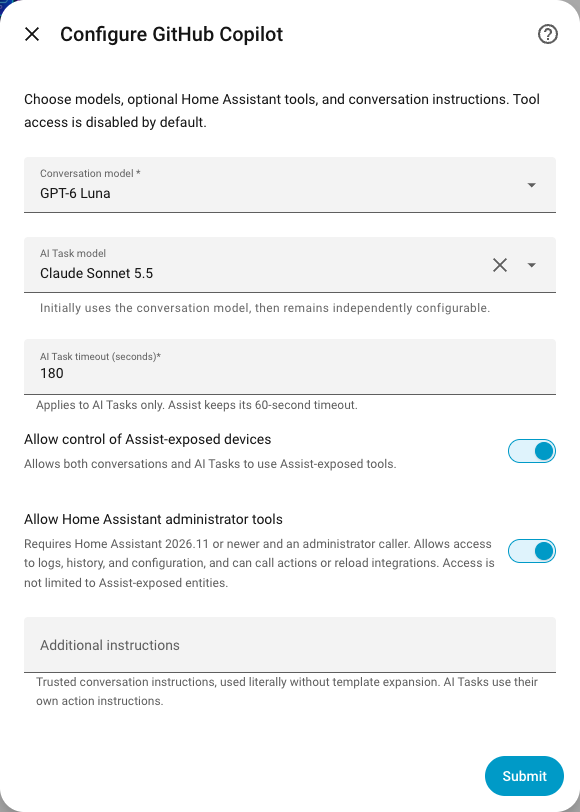
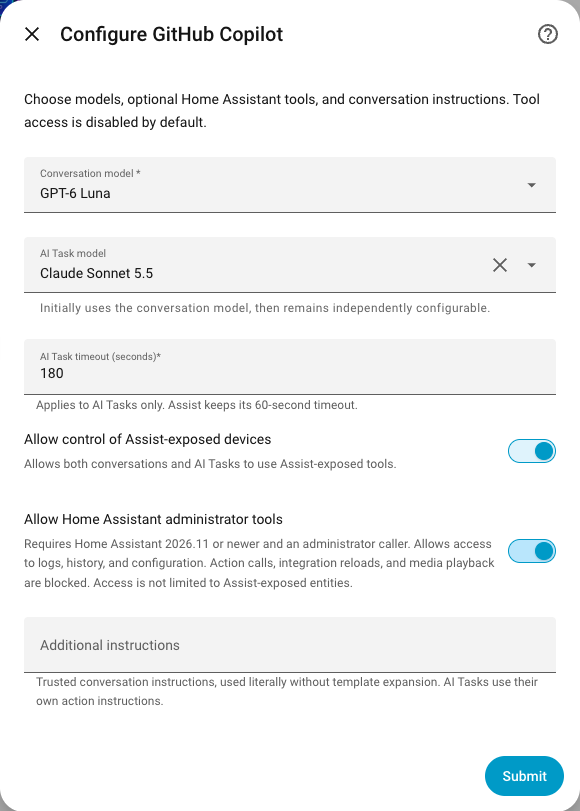
Gate administrator-side-effecting tools
Keep administrator read tools available while blocking known action,
integration reload, and media playback tools from autonomous execution.
Recheck administrator access before exposing API context, and document
the restricted behavior.

diff --git a/tests/test_backend.py b/tests/test_backend.py
@@ -1116,6 +1116,58 @@ async def test_cached_task_auth_failure_starts_reauth_without_replay(
     await assert_clean(setup)
 
 
+async def test_admin_api_context_is_hidden_after_permission_is_revoked(
+    setup, monkeypatch
+):
+    monkeypatch.setattr(
+        setup.module.llm, "LLM_API_HOME_ASSISTANT", "homeassistant", raising=False
+    )
+    setup.entry.options[CONF_ENABLE_HOME_ASSISTANT_API] = True
+    user = SimpleNamespace(is_admin=True)
+    setup.backend.hass.auth = SimpleNamespace(
+        async_get_user=AsyncMock(return_value=user)
+    )
+    setup.chat.llm_api = SimpleNamespace(
+        api_prompt="Administrator-only configuration content",
+        tools=[],
+        custom_serializer=None,
+        async_call_tool=AsyncMock(),
+        api=SimpleNamespace(requires_admin=True),
+    )
+    received = []
+
+    async def send(*args, **kwargs):
+        tool = next(
+            tool
+            for tool in setup.session.set_tools.await_args.args[0]
+            if tool.name == CONTEXT_TOOL_NAME
+        )
+        user.is_admin = False
+        for section in ("assist_api", "request"):
+            received.append(
+                await tool.handler(
+                    ToolInvocation(
+                        tool_name=tool.name,
+                        tool_call_id=f"context-{section}",
+                        arguments={"section": section},
+                    )
+                )
+            )
+        return None
+
+    setup.session.send_and_wait.side_effect = send
+    await turn(setup)
+
+    assert received[0].result_type == "failure"
+    assert "Administrator-only configuration content" not in (
+        received[0].text_result_for_llm
+    )
+    assert received[1].result_type == "success"
+    assert "current_time" in received[1].text_result_for_llm
+    setup.chat.llm_api.async_call_tool.assert_not_awaited()
+    await assert_clean(setup)
+
+
 @pytest.mark.parametrize(
     "message", ["HTTP 403 Forbidden", "HTTP 429 Too many requests"]
 )
@@ -2489,10 +2541,10 @@ async def test_serialization_failure_after_action_is_reported_without_replay(set
     await assert_clean(setup)
 
 
-def action_api(**kwargs):
+def action_api(*, tool_name="action", **kwargs):
     return SimpleNamespace(
         tools=[
-            SimpleNamespace(name="action", description="", parameters=vol.Schema({}))
+            SimpleNamespace(name=tool_name, description="", parameters=vol.Schema({}))
         ],
         custom_serializer=None,
         api_prompt="",
@@ -2692,9 +2744,17 @@ async def test_admin_notice_follows_final_reply_after_intermediate_tool(setup):
     await assert_clean(setup)
 
 
+@pytest.mark.parametrize(
+    "ha_tool_name",
+    [
+        "homeassistant__call_action",
+        "config__reload_config_entry",
+        "media_player__play_media",
+    ],
+)
 @pytest.mark.parametrize("is_admin", [False, True])
-async def test_administrator_action_rechecks_current_permission(
-    setup, monkeypatch, is_admin
+async def test_administrator_side_effect_tools_are_blocked(
+    setup, monkeypatch, ha_tool_name, is_admin
 ):
     monkeypatch.setattr(
         setup.module.llm, "LLM_API_HOME_ASSISTANT", "homeassistant", raising=False
@@ -2703,7 +2763,9 @@ async def test_administrator_action_rechecks_current_permission(
     setup.backend.hass.auth = SimpleNamespace(
         async_get_user=AsyncMock(return_value=SimpleNamespace(is_admin=is_admin))
     )
-    setup.chat.llm_api = action_api(return_value={"success": True})
+    setup.chat.llm_api = action_api(
+        tool_name=ha_tool_name, return_value={"success": True}
+    )
     received = []
 
     async def send(*args, **kwargs):
@@ -2717,12 +2779,38 @@ async def test_administrator_action_rechecks_current_permission(
 
     setup.session.send_and_wait.side_effect = send
     await turn(setup)
-    assert received[0].result_type == ("success" if is_admin else "failure")
+    assert received[0].result_type == "failure"
+    setup.chat.llm_api.async_call_tool.assert_not_awaited()
     if is_admin:
-        setup.chat.llm_api.async_call_tool.assert_awaited_once()
+        assert "autonomous execution" in received[0].text_result_for_llm
     else:
-        setup.chat.llm_api.async_call_tool.assert_not_awaited()
         assert "administrator" in received[0].text_result_for_llm
+    await assert_clean(setup)
+
+
+async def test_administrator_read_tools_remain_available(setup, monkeypatch):
+    monkeypatch.setattr(
+        setup.module.llm, "LLM_API_HOME_ASSISTANT", "homeassistant", raising=False
+    )
+    setup.entry.options[CONF_ENABLE_HOME_ASSISTANT_API] = True
+    setup.backend.hass.auth = SimpleNamespace(
+        async_get_user=AsyncMock(return_value=SimpleNamespace(is_admin=True))
+    )
+    setup.chat.llm_api = action_api(
+        tool_name="system_log__get_logs", return_value={"logs": []}
+    )
+
+    async def send(*args, **kwargs):
+        tool = setup.session.set_tools.await_args.args[0][0]
+        result = await tool.handler(
+            ToolInvocation(tool_name=tool.name, tool_call_id="read", arguments={})
+        )
+        assert result.result_type == "success"
+        return None
+
+    setup.session.send_and_wait.side_effect = send
+    await turn(setup)
+    setup.chat.llm_api.async_call_tool.assert_awaited_once()
     await assert_clean(setup)
 
 

diff --git a/custom_components/github_copilot/backend.py b/custom_components/github_copilot/backend.py
@@ -113,6 +113,14 @@ if TYPE_CHECKING:
     from .images import GeneratedImage
 
 _LOGGER = logging.getLogger(__name__)
+# Keep administrator reads available while denying known side-effecting tools.
+_ADMIN_SIDE_EFFECT_TOOLS = frozenset(
+    {
+        "config__reload_config_entry",
+        "homeassistant__call_action",
+        "media_player__play_media",
+    }
+)
 _CONTEXT_PARAMETERS = vol.Schema(
     {vol.Required("section"): vol.In(["assist_api", "request"])}
 )
@@ -674,13 +682,29 @@ class ConversationBackend:
                         if not active or self._closed:
                             raise asyncio.CancelledError
                         if is_context:
+                            if (
+                                admin_api_active
+                                and arguments.get("section") == "assist_api"
+                            ):
+                                await async_require_admin(self.hass, context.context)
                             tool_result = self._context_tool_result(
                                 arguments, user_input, chat_log
                             )
                         else:
                             if admin_api_active:
                                 await async_require_admin(self.hass, context.context)
-                            tool_result = await ha_api.async_call_tool(ha_tool_input)
+                            if admin_api_active and ha_name in _ADMIN_SIDE_EFFECT_TOOLS:
+                                tool_result = {
+                                    "error": "administrator_side_effect_blocked",
+                                    "error_text": (
+                                        "This administrator-side-effecting tool is "
+                                        "blocked for autonomous execution."
+                                    ),
+                                }
+                            else:
+                                tool_result = await ha_api.async_call_tool(
+                                    ha_tool_input
+                                )
                     except (HomeAssistantError, vol.Invalid) as err:
                         tool_result = {"error": type(err).__name__}
                         if str(err):

diff --git a/tests/test_ha_contract.py b/tests/test_ha_contract.py
@@ -535,10 +535,10 @@ async def test_real_administrator_tools_read_logs_and_call_actions(
     try:
         result = await entity._async_handle_message(user_input, chat)
         assert result.response.speech["plain"]["speech"] == "Done."
-        assert [item.result_type for item in tool_results] == ["success", "success"]
+        assert [item.result_type for item in tool_results] == ["success", "failure"]
         assert "Recorded test warning" in tool_results[0].text_result_for_llm
-        assert len(calls) == 1
-        assert calls[0].context.user_id == "admin"
+        assert "autonomous execution" in tool_results[1].text_result_for_llm
+        assert not calls
 
         user.is_admin = False
         deltas.clear()
@@ -549,7 +549,7 @@ async def test_real_administrator_tools_read_logs_and_call_actions(
         assert result.continue_conversation is question
         assert "".join(delta.get("content") or "" for delta in deltas) == expected
         assert chat.content[-1].content == expected
-        assert len(calls) == 1
+        assert not calls
         assert client.create_session.await_count == 2
         assert (chat.llm_api is not None) is device_control
     finally:

diff --git a/docs/setup.md b/docs/setup.md
@@ -115,7 +115,7 @@ screenshot shows device control and administrator tools enabled, but both are
 | **AI Task model** | Optionally choose a different model for automations. Initially defaults to the conversation model, but later changes to the conversation model do not change it. |
 | **AI Task timeout (seconds)** | Defaults to 180 seconds. This does not change Assist's 60-second timeout. |
 | **Allow control of Assist-exposed devices** | Allows conversations and AI Tasks to use Assist-exposed tools. It is **off by default**. |
-| **Allow Home Assistant administrator tools** | On HA 2026.11 or newer, allows administrator-authenticated conversations and data tasks to access logs, history and configuration, and perform actions such as calling services or reloading integrations. Access is not restricted to Assist-exposed entities. It is **off by default**. |
+| **Allow Home Assistant administrator tools** | On HA 2026.11 or newer, allows administrator-authenticated conversations and data tasks to read logs, history and configuration. Action calls, integration reloads and media playback are blocked. Access is not restricted to Assist-exposed entities. It is **off by default**. |
 | **Additional instructions** | Instructions for conversations only, such as "Keep replies brief and use Celsius." AI Tasks use the instructions supplied by each action. |
 
 For camera or image analysis, choose an AI Task model with vision support.

diff --git a/docs/usage.md b/docs/usage.md
@@ -17,11 +17,12 @@ Home Assistant templates are not expanded.
 
 On Home Assistant 2026.11 or newer, **Allow Home Assistant administrator tools**
 is a separate opt-in for conversations and data tasks. It enables HA's
-administrator API, including tools for logs, history, configuration and
-administrative actions such as calling services and reloading integrations.
+administrator API, including tools for logs, history and configuration. Tools
+that call actions, reload integrations or control media playback are blocked
+from autonomous execution.
 This API is not limited to Assist-exposed entities, even if device control is
 disabled. Results, including potentially sensitive log entries, are sent to
-GitHub Copilot. The integration does not add action confirmation.
+GitHub Copilot.
 
 Administrator tools require the context of a Home Assistant administrator.
 Non-admin or unauthenticated callers can still chat and use enabled Assist

diff --git a/README.md b/README.md
@@ -67,8 +67,9 @@ For a step-by-step walkthrough with screenshots, see the
 Device control is off by default and applies to both conversations and AI Tasks.
 It is limited to entities you expose to Assist. The separate administrator-tools
 option is also off by default and requires an authenticated Home Assistant
-administrator for each request. It can read logs and configuration and perform
-administrative actions beyond Assist-exposed entities. Change these settings under
+administrator for each request. It provides access to logs, history and
+configuration beyond Assist-exposed entities. Action calls, integration
+reloads and media playback are blocked. Change these settings under
 **Settings > Devices & services > GitHub Copilot > Configure**.
 
 An AI Task entity is created alongside the conversation entity without another
